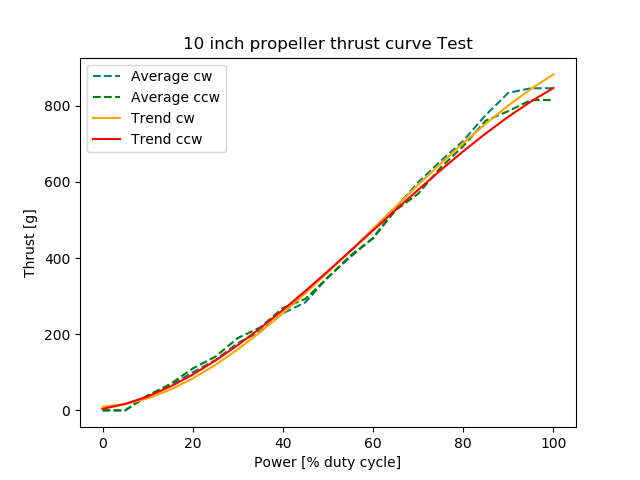
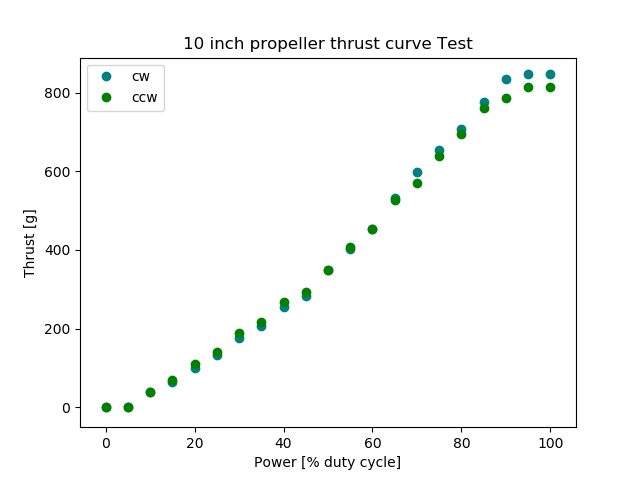
minor changes to the plot script

diff --git a/Lab_4/visualization/script2.1.3.py b/Lab_4/visualization/script2.1.3.py
@@ -46,14 +46,9 @@ plt.scatter(x, y8_1, color='grey')
 plt.scatter(x, y8_2, color='grey')
 plt.scatter(x, y8_3, color='grey')
 plt.scatter(x, y8_avg, color='teal')
-
-p_8 = np.poly1d(np.polyfit(x, y8_avg, 3))
-plt.plot(x, p_8(x), color='orange')
-print('8\"\n' + str(p_8))
 legend = [
     ln.Line2D([], [], color='grey', label='Observation', marker="o", linewidth=0),
     ln.Line2D([], [], color='teal', label='Average', marker="o", linewidth=0),
-    ln.Line2D([], [], color='orange', label='Trend')
 ]
 
 plt.legend(handles=legend)
@@ -65,22 +60,12 @@ plt.show()
 
 # plot for 10 inch propellers
 
-plt.plot(x, y10_cv, linestyle='dashed', label='average', color='teal')
-plt.plot(x, y10_ccv, linestyle='dashed', label='average', color='green')
-
-p_10_cv = np.poly1d(np.polyfit(x, y10_cv, 3))
-plt.plot(x, p_10_cv(x), color='orange')
-print('10\" cw\n' + str(p_10_cv))
-
-p_10_ccv = np.poly1d(np.polyfit(x, y10_ccv, 3))
-plt.plot(x, p_10_ccv(x), color='red')
-print('10\" ccw\n' + str(p_10_ccv))
+plt.scatter(x, y10_cv, color='teal')
+plt.scatter(x, y10_ccv, color='green')
 
 plt.legend(handles=[
-    ln.Line2D([], [], color='teal', label='Average cw', linestyle='dashed'),
-    ln.Line2D([], [], color='green', label='Average ccw', linestyle='dashed'),
-    ln.Line2D([], [], color='orange', label='Trend cw'),
-    ln.Line2D([], [], color='red', label='Trend ccw')
+    ln.Line2D([], [], color='teal', label='cw', marker="o", linewidth=0),
+    ln.Line2D([], [], color='green', label='ccw', marker="o", linewidth=0),
 ])
 plt.xlabel('Power [% duty cycle]')
 plt.ylabel('Thrust [g]')
@@ -89,6 +74,18 @@ plt.savefig('10 inch test.png')
 plt.show()
 
 # trend line comparison
+
+
+p_8 = np.poly1d(np.polyfit(x, y8_avg, 3))
+print('8\"\n' + str(p_8))
+
+p_10_cv = np.poly1d(np.polyfit(x, y10_cv, 3))
+print('10\" cw\n' + str(p_10_cv))
+
+p_10_ccv = np.poly1d(np.polyfit(x, y10_ccv, 3))
+print('10\" ccw\n' + str(p_10_ccv))
+
+
 plt.plot(x, p_8(x), color='teal')
 plt.plot(x, p_10_cv(x), color='orange')
 plt.plot(x, p_10_ccv(x), color='green')
@@ -115,7 +112,10 @@ y_volts = [
     np.max(df['8 Thrust CW 3'])
 ]
 
-plt.plot(x_volts, y_volts)
+plt.scatter(x_volts, y_volts, color='teal')
+plt.legend(handles=[
+    ln.Line2D([], [], color='teal', label='max thrust for 8\" measurements', marker="o", linewidth=0)
+])
 plt.xlabel('Battery voltage [V]')
 plt.ylabel('Thrust [g]')
 plt.title('Max thrust vs. Battery Voltage')
